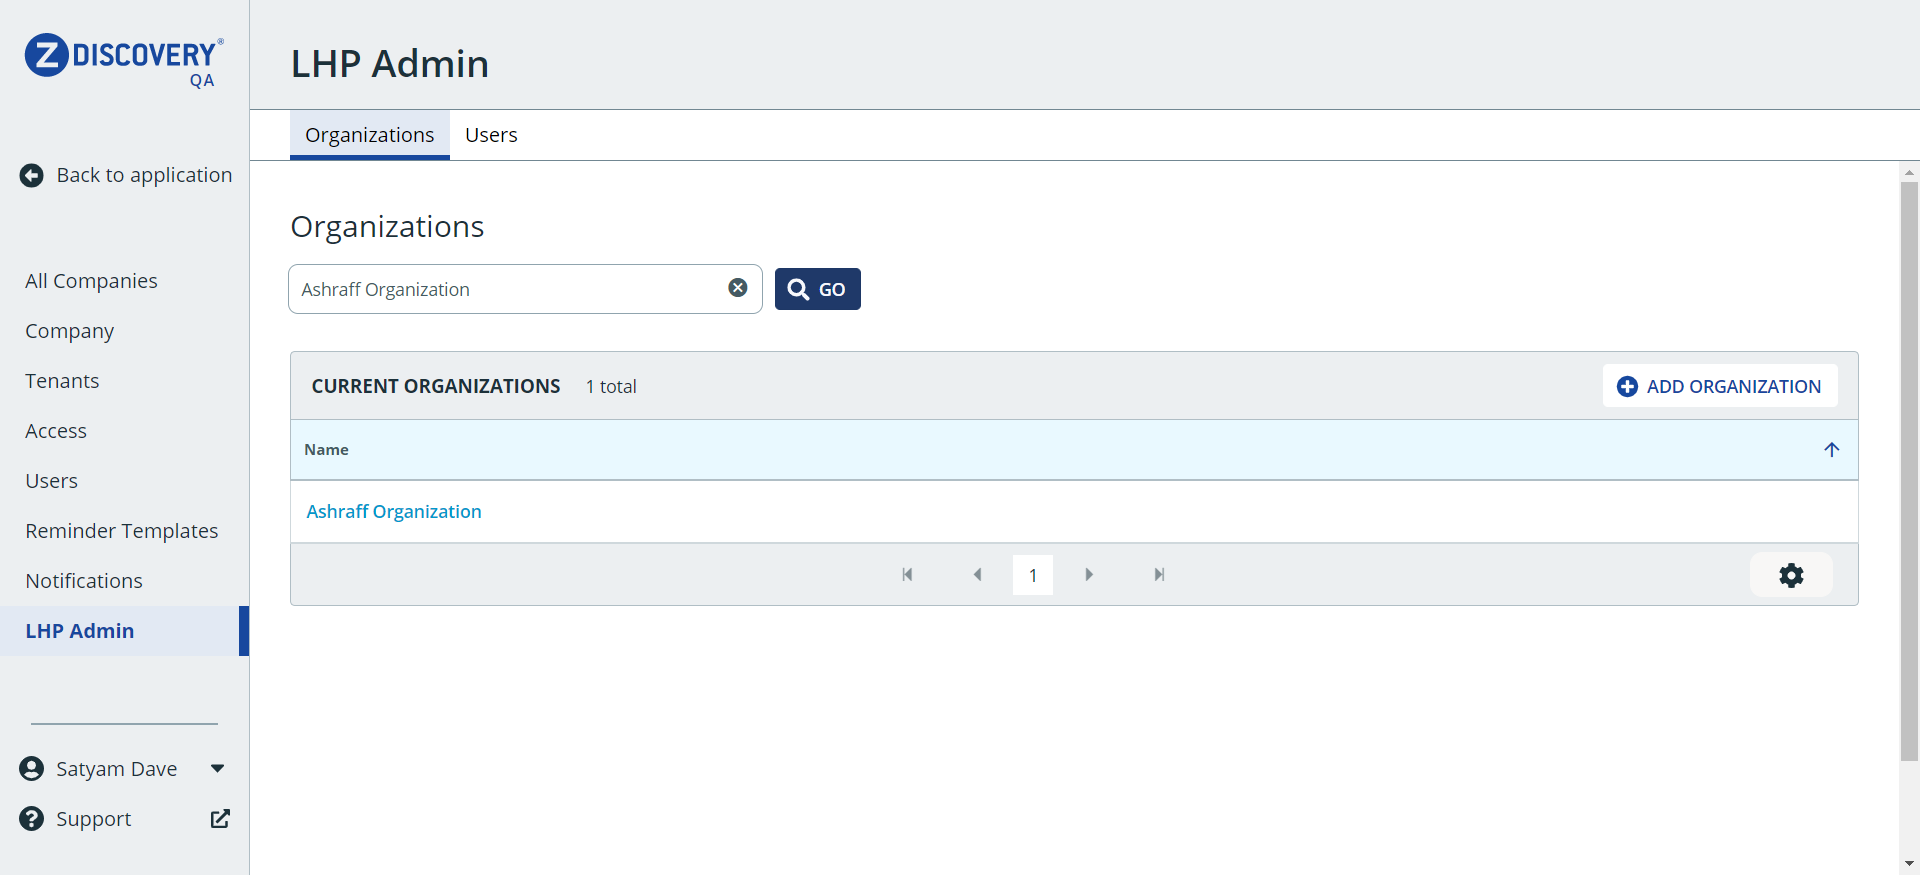
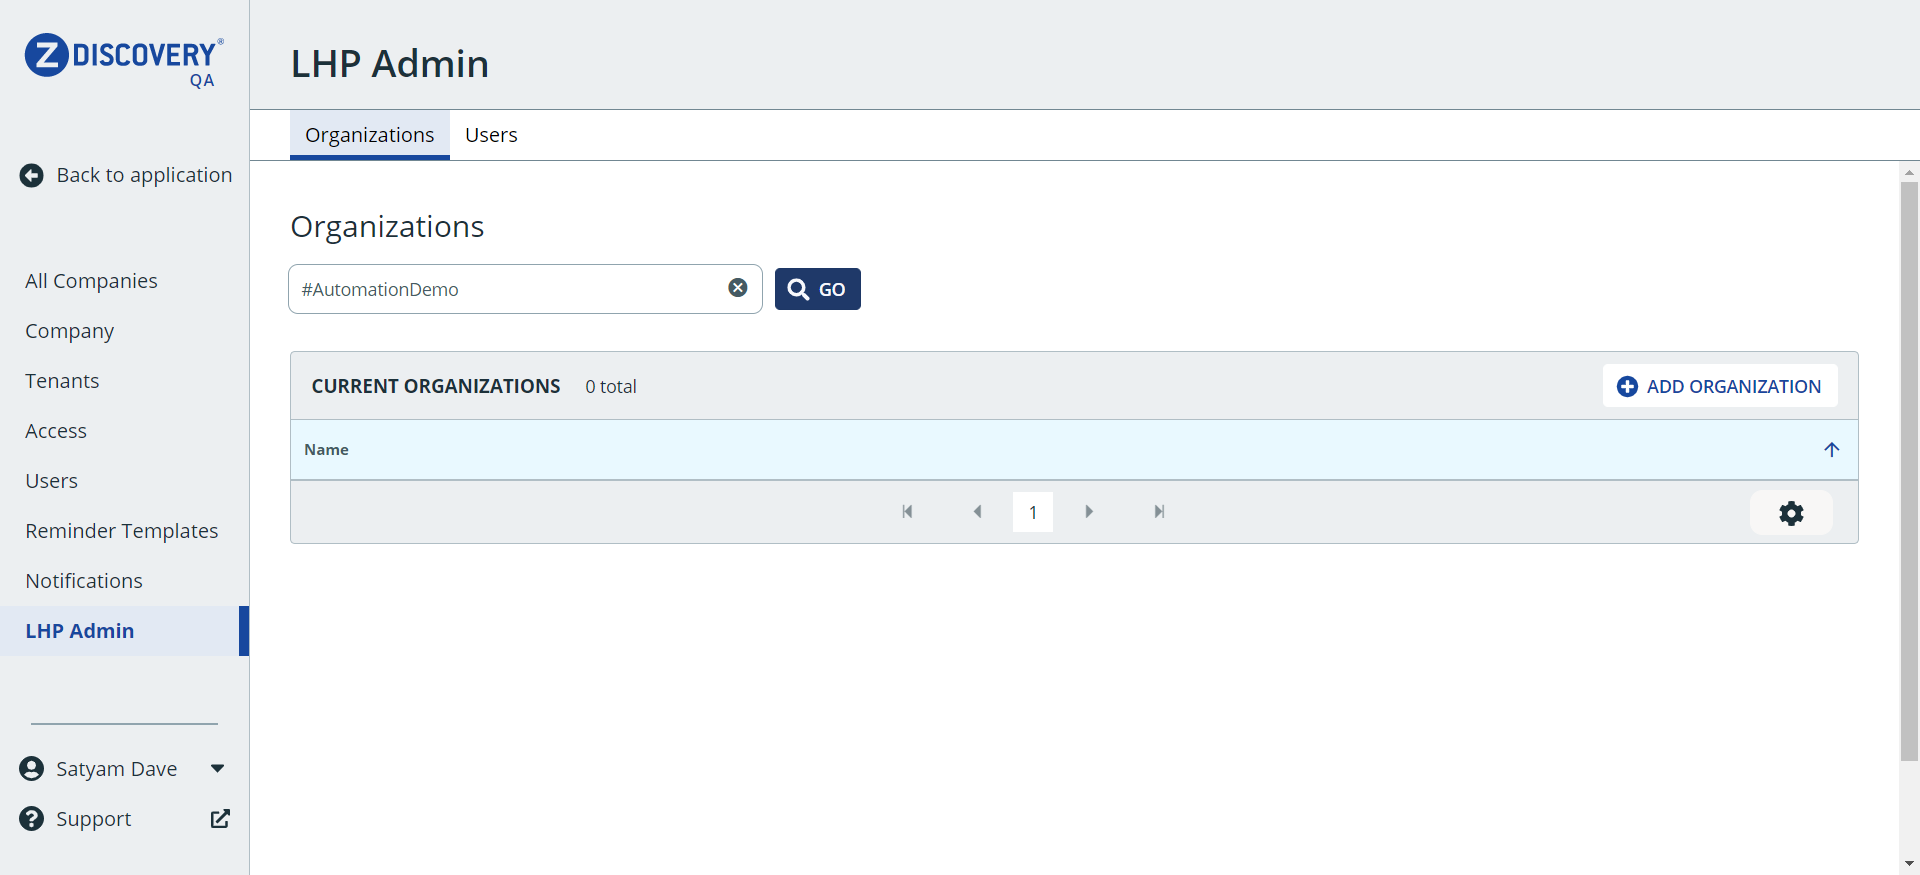
Random Org

diff --git a/Report/index.html b/Report/index.html
@@ -35,7 +35,7 @@
 <a href="#"><span class="badge badge-primary">Prolution Test Automation Report</span></a>
 </li>
 <li class="m-r-10">
-<a href="#"><span class="badge badge-primary">Aug 18, 2022 09:19:15 PM</span></a>
+<a href="#"><span class="badge badge-primary">Aug 18, 2022 11:51:22 PM</span></a>
 </li>
 </ul>
 </div>
@@ -86,7 +86,7 @@
           <div class="test-detail">
             <p class="name">addAnOrganisation</p>
             <p class="text-sm">
-              <span>9:19:16 PM</span> / <span>00:11:31:983</span>
+              <span>11:51:24 PM</span> / <span>00:00:33:965</span>
               <span class="badge fail-bg log float-right">Fail</span>
             </p>
           </div>
@@ -95,9 +95,9 @@
 <div class="p-v-10">
 <div class="info">
 <h5 class="test-status text-fail">addAnOrganisation</h5>
-<span class='badge badge-success'>08.18.2022 9:19:16 PM</span>
-<span class='badge badge-danger'>08.18.2022 9:30:48 PM</span>
-<span class='badge badge-default'>00:11:31:983</span>
+<span class='badge badge-success'>08.18.2022 11:51:24 PM</span>
+<span class='badge badge-danger'>08.18.2022 11:51:58 PM</span>
+<span class='badge badge-default'>00:00:33:965</span>
 &middot; <span class='uri-anchor badge badge-default'>#test-id=1</span>
 <span class='badge badge-default pointer float-right ml-1 et'><i class="fa fa-chevron-down"></i></span>
 <span class='badge badge-default pointer float-right ct'><i class="fa fa-chevron-up"></i></span>
@@ -113,74 +113,74 @@
   <tbody>
       <tr class="event-row">
         <td><span class="badge log info-bg">Info</span></td>
-        <td>9:19:16 PM</td>
+        <td>11:51:24 PM</td>
         <td>
           Successfully navigated to the url.
         </td>
       </tr>
       <tr class="event-row">
         <td><span class="badge log info-bg">Info</span></td>
-        <td>9:19:23 PM</td>
+        <td>11:51:33 PM</td>
         <td>
           set email and password.
         </td>
       </tr>
       <tr class="event-row">
         <td><span class="badge log info-bg">Info</span></td>
-        <td>9:19:24 PM</td>
+        <td>11:51:33 PM</td>
         <td>
           Clicked On Login Button.
         </td>
       </tr>
       <tr class="event-row">
         <td><span class="badge log info-bg">Info</span></td>
-        <td>9:19:31 PM</td>
+        <td>11:51:39 PM</td>
         <td>
           Clicked On Settings. 
         </td>
       </tr>
       <tr class="event-row">
         <td><span class="badge log info-bg">Info</span></td>
-        <td>9:19:31 PM</td>
+        <td>11:51:40 PM</td>
         <td>
           Clicked On LHP Admin. 
         </td>
       </tr>
       <tr class="event-row">
         <td><span class="badge log info-bg">Info</span></td>
-        <td>9:19:34 PM</td>
+        <td>11:51:43 PM</td>
         <td>
           Clicked On Add Organization. 
         </td>
       </tr>
       <tr class="event-row">
         <td><span class="badge log info-bg">Info</span></td>
-        <td>9:19:35 PM</td>
+        <td>11:51:43 PM</td>
         <td>
           Entered Organization Name 
         </td>
       </tr>
       <tr class="event-row">
         <td><span class="badge log info-bg">Info</span></td>
-        <td>9:19:36 PM</td>
+        <td>11:51:44 PM</td>
         <td>
           Clicked On Add button 
         </td>
       </tr>
       <tr class="event-row">
         <td><span class="badge log info-bg">Info</span></td>
-        <td>9:19:36 PM</td>
+        <td>11:51:48 PM</td>
         <td>
           Check Organization is Create or Not 
         </td>
       </tr>
       <tr class="event-row">
         <td><span class="badge log fail-bg">Fail</span></td>
-        <td>9:30:48 PM</td>
+        <td>11:51:58 PM</td>
         <td>
           <textarea readonly class="code-block">java.lang.RuntimeException
 	at Extras.RetryUtil.retry(RetryUtil.java:24)
-	at com.Zapproved.tests.AddOrganizationTest.addAnOrganisation(AddOrganizationTest.java:45)
+	at com.Zapproved.tests.AddOrganizationTest.addAnOrganisation(AddOrganizationTest.java:48)
 	at java.base/jdk.internal.reflect.DirectMethodHandleAccessor.invoke(DirectMethodHandleAccessor.java:104)
 	at java.base/java.lang.reflect.Method.invoke(Method.java:577)
 	at org.testng.internal.invokers.MethodInvocationHelper.invokeMethod(MethodInvocationHelper.java:139)
@@ -257,7 +257,7 @@
 <tbody>
 <tr class="tag-test-status" status="fail">
 <td><span class="badge log fail-bg">Fail</span></td>
-<td>21:19:16 PM</td>
+<td>23:51:24 PM</td>
 <td>
 <a href="#" class="linked" test-id='1' id='1'>addAnOrganisation</a>
 </td>
@@ -279,13 +279,13 @@
 <div class="col-md-3">
 <div class="card"><div class="card-body">
 <p class="m-b-0">Started</p>
-<h3>Aug 18, 2022 09:19:15 PM</h3>
+<h3>Aug 18, 2022 11:51:22 PM</h3>
 </div></div>
 </div>
 <div class="col-md-3">
 <div class="card"><div class="card-body">
 <p class="m-b-0">Ended</p>
-<h3>Aug 18, 2022 09:30:51 PM</h3>
+<h3>Aug 18, 2022 11:51:58 PM</h3>
 </div></div>
 </div>
 <div class="col-md-3">
@@ -355,7 +355,7 @@
 </div></div>
 <script>
 var timeline = {
-"addAnOrganisation":691.983
+"addAnOrganisation":33.965
 };
 </script>
 <div class="row">

diff --git a/test-output/old/Default suite/methods.html b/test-output/old/Default suite/methods.html
@@ -1,12 +1,12 @@
 <h2>Methods run, sorted chronologically</h2><h3>&gt;&gt; means before, &lt;&lt; means after</h3><p/><br/><em>Default suite</em><p/><small><i>(Hover the method name to see the test class name)</i></small><p/>
 <table border="1">
 <tr><th>Time</th><th>Delta (ms)</th><th>Suite<br>configuration</th><th>Test<br>configuration</th><th>Class<br>configuration</th><th>Groups<br>configuration</th><th>Method<br>configuration</th><th>Test<br>method</th><th>Thread</th><th>Instances</th></tr>
-<tr bgcolor="6e82ae">  <td>22/08/18 21:30:48</td>   <td>0</td> <td>&nbsp;</td><td>&nbsp;</td><td>&nbsp;</td><td>&nbsp;</td><td title="&lt;&lt;BaseTest.TearDown(org.testng.ITestResult)[pri:0, instance:com.Zapproved.tests.AddOrganizationTest@fba92d3]">&lt;&lt;TearDown</td> 
-<td>&nbsp;</td>  <td>main@640070680</td>   <td></td> </tr>
-<tr bgcolor="6e82ae">  <td>22/08/18 21:19:15</td>   <td>-693362</td> <td>&nbsp;</td><td>&nbsp;</td><td>&nbsp;</td><td>&nbsp;</td><td title="&gt;&gt;BaseTest.SetUp()[pri:0, instance:com.Zapproved.tests.AddOrganizationTest@fba92d3]">&gt;&gt;SetUp</td> 
-<td>&nbsp;</td>  <td>main@640070680</td>   <td></td> </tr>
-<tr bgcolor="71e976">  <td>22/08/18 21:19:16</td>   <td>-691988</td> <td>&nbsp;</td><td>&nbsp;</td><td>&nbsp;</td><td>&nbsp;</td><td>&nbsp;</td><td title="AddOrganizationTest.addAnOrganisation()[pri:0, instance:com.Zapproved.tests.AddOrganizationTest@fba92d3]">addAnOrganisation</td> 
+<tr bgcolor="71e976">  <td>22/08/18 23:51:24</td>   <td>0</td> <td>&nbsp;</td><td>&nbsp;</td><td>&nbsp;</td><td>&nbsp;</td><td>&nbsp;</td><td title="AddOrganizationTest.addAnOrganisation()[pri:0, instance:com.Zapproved.tests.AddOrganizationTest@fba92d3]">addAnOrganisation</td> 
   <td>main@640070680</td>   <td></td> </tr>
-<tr bgcolor="6e82ae">  <td>22/08/18 21:19:16</td>   <td>-691989</td> <td>&nbsp;</td><td>&nbsp;</td><td>&nbsp;</td><td>&nbsp;</td><td title="&gt;&gt;BaseTest.initialie()[pri:0, instance:com.Zapproved.tests.AddOrganizationTest@fba92d3]">&gt;&gt;initialie</td> 
+<tr bgcolor="6e82ae">  <td>22/08/18 23:51:23</td>   <td>-1495</td> <td>&nbsp;</td><td>&nbsp;</td><td>&nbsp;</td><td>&nbsp;</td><td title="&gt;&gt;BaseTest.SetUp()[pri:0, instance:com.Zapproved.tests.AddOrganizationTest@fba92d3]">&gt;&gt;SetUp</td> 
+<td>&nbsp;</td>  <td>main@640070680</td>   <td></td> </tr>
+<tr bgcolor="6e82ae">  <td>22/08/18 23:51:58</td>   <td>33974</td> <td>&nbsp;</td><td>&nbsp;</td><td>&nbsp;</td><td>&nbsp;</td><td title="&lt;&lt;BaseTest.TearDown(org.testng.ITestResult)[pri:0, instance:com.Zapproved.tests.AddOrganizationTest@fba92d3]">&lt;&lt;TearDown</td> 
+<td>&nbsp;</td>  <td>main@640070680</td>   <td></td> </tr>
+<tr bgcolor="6e82ae">  <td>22/08/18 23:51:24</td>   <td>-1</td> <td>&nbsp;</td><td>&nbsp;</td><td>&nbsp;</td><td>&nbsp;</td><td title="&gt;&gt;BaseTest.initialie()[pri:0, instance:com.Zapproved.tests.AddOrganizationTest@fba92d3]">&gt;&gt;initialie</td> 
 <td>&nbsp;</td>  <td>main@640070680</td>   <td></td> </tr>
 </table>

diff --git a/test-output/old/Default suite/methods-alphabetical.html b/test-output/old/Default suite/methods-alphabetical.html
@@ -1,12 +1,12 @@
 <h2>Methods run, sorted chronologically</h2><h3>&gt;&gt; means before, &lt;&lt; means after</h3><p/><br/><em>Default suite</em><p/><small><i>(Hover the method name to see the test class name)</i></small><p/>
 <table border="1">
 <tr><th>Time</th><th>Delta (ms)</th><th>Suite<br>configuration</th><th>Test<br>configuration</th><th>Class<br>configuration</th><th>Groups<br>configuration</th><th>Method<br>configuration</th><th>Test<br>method</th><th>Thread</th><th>Instances</th></tr>
-<tr bgcolor="6e82ae">  <td>22/08/18 21:19:15</td>   <td>0</td> <td>&nbsp;</td><td>&nbsp;</td><td>&nbsp;</td><td>&nbsp;</td><td title="&gt;&gt;BaseTest.SetUp()[pri:0, instance:com.Zapproved.tests.AddOrganizationTest@fba92d3]">&gt;&gt;SetUp</td> 
+<tr bgcolor="6e82ae">  <td>22/08/18 23:51:23</td>   <td>0</td> <td>&nbsp;</td><td>&nbsp;</td><td>&nbsp;</td><td>&nbsp;</td><td title="&gt;&gt;BaseTest.SetUp()[pri:0, instance:com.Zapproved.tests.AddOrganizationTest@fba92d3]">&gt;&gt;SetUp</td> 
 <td>&nbsp;</td>  <td>main@640070680</td>   <td></td> </tr>
-<tr bgcolor="6e82ae">  <td>22/08/18 21:30:48</td>   <td>693362</td> <td>&nbsp;</td><td>&nbsp;</td><td>&nbsp;</td><td>&nbsp;</td><td title="&lt;&lt;BaseTest.TearDown(org.testng.ITestResult)[pri:0, instance:com.Zapproved.tests.AddOrganizationTest@fba92d3]">&lt;&lt;TearDown</td> 
+<tr bgcolor="6e82ae">  <td>22/08/18 23:51:58</td>   <td>35469</td> <td>&nbsp;</td><td>&nbsp;</td><td>&nbsp;</td><td>&nbsp;</td><td title="&lt;&lt;BaseTest.TearDown(org.testng.ITestResult)[pri:0, instance:com.Zapproved.tests.AddOrganizationTest@fba92d3]">&lt;&lt;TearDown</td> 
 <td>&nbsp;</td>  <td>main@640070680</td>   <td></td> </tr>
-<tr bgcolor="71e976">  <td>22/08/18 21:19:16</td>   <td>1374</td> <td>&nbsp;</td><td>&nbsp;</td><td>&nbsp;</td><td>&nbsp;</td><td>&nbsp;</td><td title="AddOrganizationTest.addAnOrganisation()[pri:0, instance:com.Zapproved.tests.AddOrganizationTest@fba92d3]">addAnOrganisation</td> 
+<tr bgcolor="71e976">  <td>22/08/18 23:51:24</td>   <td>1495</td> <td>&nbsp;</td><td>&nbsp;</td><td>&nbsp;</td><td>&nbsp;</td><td>&nbsp;</td><td title="AddOrganizationTest.addAnOrganisation()[pri:0, instance:com.Zapproved.tests.AddOrganizationTest@fba92d3]">addAnOrganisation</td> 
   <td>main@640070680</td>   <td></td> </tr>
-<tr bgcolor="6e82ae">  <td>22/08/18 21:19:16</td>   <td>1373</td> <td>&nbsp;</td><td>&nbsp;</td><td>&nbsp;</td><td>&nbsp;</td><td title="&gt;&gt;BaseTest.initialie()[pri:0, instance:com.Zapproved.tests.AddOrganizationTest@fba92d3]">&gt;&gt;initialie</td> 
+<tr bgcolor="6e82ae">  <td>22/08/18 23:51:24</td>   <td>1494</td> <td>&nbsp;</td><td>&nbsp;</td><td>&nbsp;</td><td>&nbsp;</td><td title="&gt;&gt;BaseTest.initialie()[pri:0, instance:com.Zapproved.tests.AddOrganizationTest@fba92d3]">&gt;&gt;initialie</td> 
 <td>&nbsp;</td>  <td>main@640070680</td>   <td></td> </tr>
 </table>

diff --git a/test-output/Default suite/Default test.html b/test-output/Default suite/Default test.html
@@ -57,9 +57,9 @@ function toggleAllBoxes() {
 <tr>
 <td>Tests passed/Failed/Skipped:</td><td>0/1/0</td>
 </tr><tr>
-<td>Started on:</td><td>Thu Aug 18 21:19:15 IST 2022</td>
+<td>Started on:</td><td>Thu Aug 18 23:51:23 IST 2022</td>
 </tr>
-<tr><td>Total time:</td><td>696 seconds (696145 ms)</td>
+<tr><td>Total time:</td><td>35 seconds (35801 ms)</td>
 </tr><tr>
 <td>Included groups:</td><td></td>
 </tr><tr>
@@ -79,7 +79,7 @@ function toggleAllBoxes() {
 <td title='com.Zapproved.tests.AddOrganizationTest.addAnOrganisation()'><b>addAnOrganisation</b><br>Test class: com.Zapproved.tests.AddOrganizationTest</td>
 <td><div><pre>java.lang.RuntimeException
 	at Extras.RetryUtil.retry(RetryUtil.java:24)
-	at com.Zapproved.tests.AddOrganizationTest.addAnOrganisation(AddOrganizationTest.java:45)
+	at com.Zapproved.tests.AddOrganizationTest.addAnOrganisation(AddOrganizationTest.java:48)
 	at java.base/jdk.internal.reflect.DirectMethodHandleAccessor.invoke(DirectMethodHandleAccessor.java:104)
 	at java.base/java.lang.reflect.Method.invoke(Method.java:577)
 	at org.testng.internal.invokers.MethodInvocationHelper.invokeMethod(MethodInvocationHelper.java:139)
@@ -106,10 +106,10 @@ function toggleAllBoxes() {
 	at org.testng.remote.AbstractRemoteTestNG.run(AbstractRemoteTestNG.java:115)
 	at org.testng.remote.RemoteTestNG.initAndRun(RemoteTestNG.java:251)
 	at org.testng.remote.RemoteTestNG.main(RemoteTestNG.java:77)
-</pre></div><a href='#' onClick='toggleBox("stack-trace1866841711", this, "Click to show all stack frames", "Click to hide stack frames")'>Click to show all stack frames</a>
-<div class='stack-trace' id='stack-trace1866841711'><pre>java.lang.RuntimeException
+</pre></div><a href='#' onClick='toggleBox("stack-trace1905114489", this, "Click to show all stack frames", "Click to hide stack frames")'>Click to show all stack frames</a>
+<div class='stack-trace' id='stack-trace1905114489'><pre>java.lang.RuntimeException
 	at Extras.RetryUtil.retry(RetryUtil.java:24)
-	at com.Zapproved.tests.AddOrganizationTest.addAnOrganisation(AddOrganizationTest.java:45)
+	at com.Zapproved.tests.AddOrganizationTest.addAnOrganisation(AddOrganizationTest.java:48)
 	at java.base/jdk.internal.reflect.DirectMethodHandleAccessor.invoke(DirectMethodHandleAccessor.java:104)
 	at java.base/java.lang.reflect.Method.invoke(Method.java:577)
 	at org.testng.internal.invokers.MethodInvocationHelper.invokeMethod(MethodInvocationHelper.java:139)
@@ -137,7 +137,7 @@ function toggleAllBoxes() {
 	at org.testng.remote.RemoteTestNG.initAndRun(RemoteTestNG.java:251)
 	at org.testng.remote.RemoteTestNG.main(RemoteTestNG.java:77)
 </pre></div></td>
-<td>691</td>
+<td>33</td>
 <td>com.Zapproved.tests.AddOrganizationTest@fba92d3</td></tr>
 </table><p>
 </body>

diff --git a/test-output/emailable-report.html b/test-output/emailable-report.html
@@ -9,13 +9,13 @@
 <table>
 <tr><th>Test</th><th># Passed</th><th># Skipped</th><th># Retried</th><th># Failed</th><th>Time (ms)</th><th>Included Groups</th><th>Excluded Groups</th></tr>
 <tr><th colspan="8">Default suite</th></tr>
-<tr><td><a href="#t0">Default test</a></td><td class="num">0</td><td class="num">0</td><td class="num">0</td><td class="num attn">1</td><td class="num">696,145</td><td></td><td></td></tr>
+<tr><td><a href="#t0">Default test</a></td><td class="num">0</td><td class="num">0</td><td class="num">0</td><td class="num attn">1</td><td class="num">35,801</td><td></td><td></td></tr>
 </table>
-<table id='summary'><thead><tr><th>Class</th><th>Method</th><th>Start</th><th>Time (ms)</th></tr></thead><tbody><tr><th colspan="4">Default suite</th></tr></tbody><tbody id="t0"><tr><th colspan="4">Default test &#8212; failed</th></tr><tr class="failedeven"><td rowspan="1">com.Zapproved.tests.AddOrganizationTest</td><td><a href="#m0">addAnOrganisation</a></td><td rowspan="1">1660837756883</td><td rowspan="1">691791</td></tr></tbody>
+<table id='summary'><thead><tr><th>Class</th><th>Method</th><th>Start</th><th>Time (ms)</th></tr></thead><tbody><tr><th colspan="4">Default suite</th></tr></tbody><tbody id="t0"><tr><th colspan="4">Default test &#8212; failed</th></tr><tr class="failedeven"><td rowspan="1">com.Zapproved.tests.AddOrganizationTest</td><td><a href="#m0">addAnOrganisation</a></td><td rowspan="1">1660846884658</td><td rowspan="1">33862</td></tr></tbody>
 </table>
 <h2>Default test</h2><h3 id="m0">com.Zapproved.tests.AddOrganizationTest#addAnOrganisation</h3><table class="result"><tr><th>Exception</th></tr><tr><td><div class="stacktrace">java.lang.RuntimeException
 	at Extras.RetryUtil.retry(RetryUtil.java:24)
-	at com.Zapproved.tests.AddOrganizationTest.addAnOrganisation(AddOrganizationTest.java:45)
+	at com.Zapproved.tests.AddOrganizationTest.addAnOrganisation(AddOrganizationTest.java:48)
 	at java.base/jdk.internal.reflect.DirectMethodHandleAccessor.invoke(DirectMethodHandleAccessor.java:104)
 	at java.base/java.lang.reflect.Method.invoke(Method.java:577)
 	at org.testng.internal.invokers.MethodInvocationHelper.invokeMethod(MethodInvocationHelper.java:139)

diff --git a/src/test/java/com/Zapproved/tests/AddOrganizationTest.java b/src/test/java/com/Zapproved/tests/AddOrganizationTest.java
@@ -8,11 +8,12 @@ import com.aventstack.extentreports.Status;
 
 import Extras.ReportGenerator;
 import Extras.RetryUtil;
+import utils.TestUtils;
 
 @Listeners(Extras.Listeneres.class)
 public class AddOrganizationTest extends BaseTest {
 
-	String Company = "xyzzz Organization";
+	String Company = "#AutomationDemo";
 
 	@Test
 	public void addAnOrganisation() throws Exception {
@@ -35,8 +36,10 @@ public class AddOrganizationTest extends BaseTest {
 		ReportGenerator.getExtentReport().log(Status.INFO, "Clicked On Add Organization. ");
 		pages.getAddOrganization().clickOnAddOrganization();
 
+		String RandomOrg = TestUtils.uniqueTextGenerator("AutomationDemo");
+
 		ReportGenerator.getExtentReport().log(Status.INFO, "Entered Organization Name ");
-		pages.getAddOrganization().enterOrganizationName(Company);
+		pages.getAddOrganization().enterOrganizationName(RandomOrg);
 
 		ReportGenerator.getExtentReport().log(Status.INFO, "Clicked On Add button ");
 		pages.getAddOrganization().clickOnAddButton();
@@ -48,7 +51,7 @@ public class AddOrganizationTest extends BaseTest {
 			;
 			return null;
 		}, 10);
-
+		Company = RandomOrg;
 	}
 
 	@Test

diff --git a/src/test/java/com/Zapproved/tests/BaseTest.java b/src/test/java/com/Zapproved/tests/BaseTest.java
@@ -45,6 +45,8 @@ public class BaseTest {
 
 	public ExtentTest test;
 
+	// Launch the Bowser
+
 	@BeforeMethod
 	public void SetUp() throws MalformedURLException {
 		System.out.println("In Base setup, you have choosed to run the system as " + prop.Execution());
@@ -80,6 +82,8 @@ public class BaseTest {
 
 	}
 
+	// Close The Browser
+
 	@AfterMethod
 	public void TearDown(ITestResult res) {
 		System.out.println("inside teardown");
@@ -91,6 +95,8 @@ public class BaseTest {
 		}
 
 	}
+
+	// ScreenShot
 
 	public static String TakeScreenshot(String TestName, WebDriver driver) throws IOException {
 		TakesScreenshot scrShot = ((TakesScreenshot) driver);

diff --git a/src/test/java/com/Zapproved/pages/AddOrganization.java b/src/test/java/com/Zapproved/pages/AddOrganization.java
@@ -2,7 +2,6 @@ package com.Zapproved.pages;
 
 import org.openqa.selenium.By;
 import org.openqa.selenium.WebDriver;
-import org.openqa.selenium.WebElement;
 
 import utils.TestUtils;
 
@@ -74,18 +73,14 @@ public class AddOrganization extends BasePage {
 	}
 
 	public void clickOnAddButton() {
+		Sleep(4);
 		clickandwait(AddButton);
 
 	}
 
 	public boolean checkOrganization() { // Check whether organization is created or not
 
-		waitforelementtoBecomePresent(Error);
-		WebElement ele = driver.get().findElement(Error);
-
-		ele.isDisplayed();
-		System.out.println(ele.getText());
-		return false;
+		return IsElementPresent(Error);
 
 	}
 

diff --git a/src/test/java/com/Zapproved/pages/BasePage.java b/src/test/java/com/Zapproved/pages/BasePage.java
@@ -17,6 +17,8 @@ import org.openqa.selenium.support.ui.ExpectedConditions;
 import org.openqa.selenium.support.ui.Select;
 import org.openqa.selenium.support.ui.WebDriverWait;
 
+//Generic Methods to carryout automation activities
+
 public class BasePage {
 
 	protected ThreadLocal<WebDriver> driver = new ThreadLocal<>();
@@ -35,7 +37,7 @@ public class BasePage {
 	}
 
 	public void waitforPresenceOFElementUntilCLickable(By locator) {
-		// System.out.println();
+
 		try {
 			WebElement firstResult = new WebDriverWait(driver.get(), 60)
 					.until(ExpectedConditions.elementToBeClickable(locator));

diff --git a/src/test/java/com/Zapproved/pages/PageCollection.java b/src/test/java/com/Zapproved/pages/PageCollection.java
@@ -13,6 +13,7 @@ public class PageCollection {
 	private SearchCompany searchCompany;
 	private AddUser addUser;
 	private AddOrganization addOrganization;
+	private UserSearch userSearch;
 
 	public SearchCompany getSearchCompany() {
 
@@ -28,4 +29,8 @@ public class PageCollection {
 		return (addOrganization == null) ? addOrganization = new AddOrganization(driver) : addOrganization;
 	}
 
+	public UserSearch getUserSearch() {
+		return (userSearch == null) ? userSearch = new UserSearch(driver) : userSearch;
+
+	}
 }

diff --git a/src/test/java/com/Zapproved/pages/UserSearch.java b/src/test/java/com/Zapproved/pages/UserSearch.java
@@ -1,0 +1,12 @@
+package com.Zapproved.pages;
+
+import org.openqa.selenium.WebDriver;
+
+public class UserSearch extends BasePage {
+
+	public UserSearch(ThreadLocal<WebDriver> driver) {
+		super(driver);
+		// TODO Auto-generated constructor stub
+	}
+
+}
